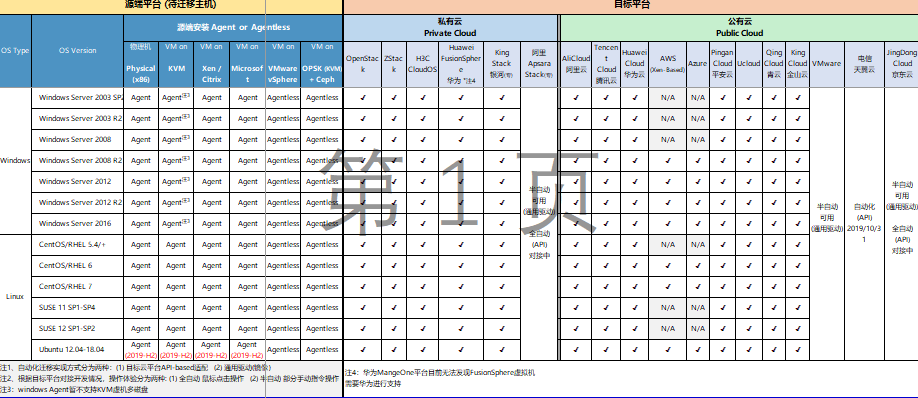
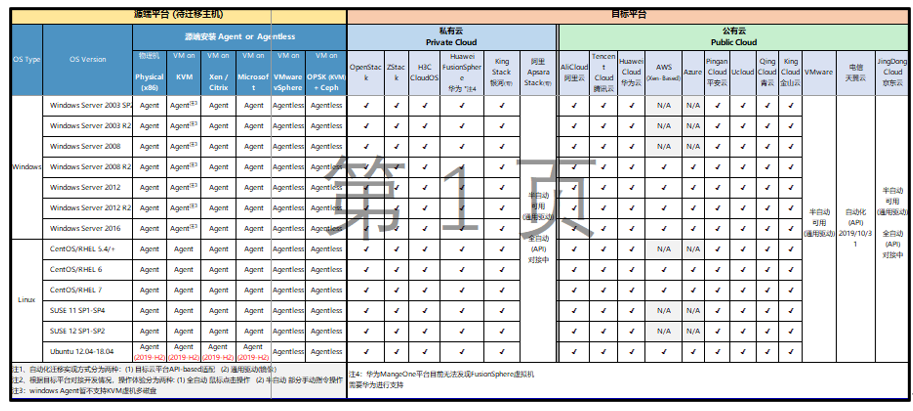
HyperMotion

diff --git a/docs/HyperMotion_danji_20191227.md b/docs/HyperMotion_danji_20191227.md
@@ -1,10 +1,10 @@
 
 # <font face="方正正黑简体" size=6 >**  **  </font>  
 
-## <font face="方正正黑简体" size=6 >**概述**  </font>  
+# <font face="方正正黑简体" size=6 >**概述**  </font>  
 
 ## <font face="方正正黑简体" size=6 >**支持列表**  </font>  
-&ensp;<img src="https://github.com/oneprocloud/hypermotion_docs/raw/master/images/image_hm_danji/22.png" width="650">
+&ensp;<img src="https://github.com/oneprocloud/hypermotion_docs/raw/master/images/image_hm_danji/26.png" width="650">
 ## <font face="方正正黑简体" size=6 >**安装指南**  </font>  
 ___
 ### <font face="方正正黑简体" size=5 >**获取镜像包**  </font> 
